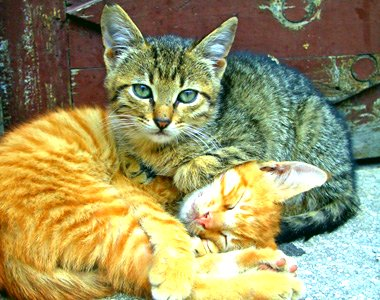
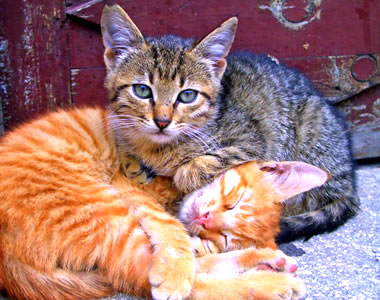
Fixed color matrix values for Polaroid
Rows and columns are reversed. (only polaroid)

diff --git a/source/tips/colormatrix-guide.html b/source/tips/colormatrix-guide.html
@@ -203,10 +203,9 @@ ColorMatrix5=-1;-1;-1;0;1
 </div>
 ``` ini
 ;Polaroid Color
-ColorMatrix1=1.438;-0.062;-0.062;0;0
-ColorMatrix2=-0.122;1.378;-0.122;0;0
-ColorMatrix3=-0.016;-0.016;1.483;0;0
-ColorMatrix5=-0.03;0.05;-0.02;0;1
+ColorMatrix1=1.438;-0.122;-0.016;0;0
+ColorMatrix2=-0.062;1.378;-0.016;0;0
+ColorMatrix3=-0.062;-0.122;1.483;0;0
 ```
 <br><br>
 <p><b>[White to Alpha]</b></p>
